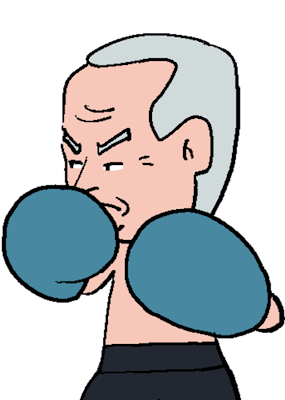
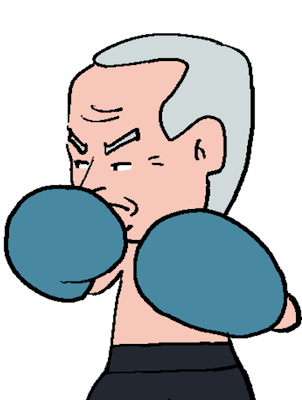
resizing images per devices

diff --git a/FistBump/views/eula/EulaView.jsx b/FistBump/views/eula/EulaView.jsx
@@ -14,19 +14,13 @@ export function EulaView({ navigation }) {
 
     return (
         <View style={styles.container}>
-            {/* <View id='topFrameContainer' style={styles.topFrameContainer}>
-                <Image source={TopFrame} style={styles.topFrame}></Image>
-            </View> */}
             <View style={styles.eulaContent}>
                 <ImageBackground style={styles.eulaFrame} source={EulaFrame}>
-                <ScrollView bounces="false" style={styles.textContainer}> 
-                    <Text style={styles.text}>Lorem ipsum, dolor sit amet consectetur adipisicing elit. Voluptas necessitatibus enim, cupiditate, expedita fugiat hic vel dolorum cumque iusto dicta debitis sapiente nulla sunt, consequatur earum minus inventore explicabo nostrum! Lorem ipsum dolor sit amet, consectetur adipisicing elit. Modi sequi nihil tempore! Reiciendis architecto labore dolore, temporibus distinctio quis quia optio harum maxime vel illo suscipit, nostrum expedita veritatis beatae. Lorem ipsum dolor sit, amet consectetur adipisicing elit. Hic laborum, quas tempore provident asperiores nihil accusantium. Ex provident repellat minima minus amet, fugit quae, est voluptatibus nisi animi temporibus iste. Lorem ipsum, dolor sit amet consectetur adipisicing elit. Laborum blanditiis mollitia debitis cupiditate amet autem, eveniet natus, doloremque dolores aut neque dignissimos sequi reiciendis in doloribus eius. Omnis, ad ab! Lorem ipsum dolor sit amet consectetur adipisicing elit. Minus expedita, doloribus a suscipit eaque voluptas rem modi maiores natus. Molestias voluptatem dicta vero nemo doloremque impedit asperiores. Optio, animi ut! Lorem ipsum dolor sit amet consectetur adipisicing elit. Culpa, voluptates delectus quis, magni sapiente non quasi ex error repellendus eligendi possimus voluptatem. Error pariatur magnam maiores consequatur laboriosam atque accusamus? Lorem, ipsum dolor sit amet consectetur adipisicing elit. Eos magni sequi, suscipit facilis impedit voluptas ratione voluptates enim, vel perferendis praesentium sapiente vitae veniam accusantium animi? Ea, culpa pariatur. Voluptatibus. Lorem ipsum dolor sit amet consectetur adipisicing elit. Nihil sequi animi a assumenda. Deserunt ipsum soluta numquam quos non veritatis voluptates. Tempore pariatur praesentium sequi fuga aspernatur dicta qui? A?</Text>
-                </ScrollView> 
+                    <ScrollView bounces="false" style={styles.textContainer}>
+                        <Text style={styles.text}>Lorem ipsum dolor sit amet consectetur adipisicing elit. Praesentium dolorem cum repellendus, cumque eos eveniet deleniti nemo, fuga est totam itaque perspiciatis expedita odio. Lorem ipsum, dolor sit amet consectetur adipisicing elit. Cum libero repellendus fuga omnis earum praesentium id! Aspernatur ea odit possimus adipisci ab quo inventore dignissimos repellat, Lorem, ipsum dolor sit amet consectetur adipisicing elit. Aspernatur dignissimos autem beatae iure possimus, libero voluptate hic corrupti quibusdam deserunt in velit quae harum unde commodi dicta voluptates at? Sapiente! numquam dolor impedit iure?Eos fugit voluptate aut et molestiae!Lorem ipsum, dolor sit amet consectetur adipisicing elit. Voluptas necessitatibus enim, cupiditate, expedita fugiat hic vel dolorum cumque iusto dicta debitis sapiente nulla sunt, consequatur earum minus inventore explicabo nostrum! Lorem ipsum dolor sit amet, consectetur adipisicing elit. Modi sequi nihil tempore! Reiciendis architecto labore dolore, temporibus distinctio quis quia optio harum maxime vel illo suscipit, nostrum expedita veritatis beatae. Lorem ipsum dolor sit, amet consectetur adipisicing elit. Hic laborum, quas tempore provident asperiores nihil accusantium. Ex provident repellat minima minus amet, fugit quae, est voluptatibus nisi animi temporibus iste. Lorem ipsum, dolor sit amet consectetur adipisicing elit. Laborum blanditiis mollitia debitis cupiditate amet autem, eveniet natus, doloremque dolores aut neque dignissimos sequi reiciendis in doloribus eius. Omnis, ad ab! Lorem ipsum dolor sit amet consectetur adipisicing elit. Minus expedita, doloribus a suscipit eaque voluptas rem modi maiores natus. Molestias voluptatem dicta vero nemo doloremque impedit asperiores. Optio, animi ut! Lorem ipsum dolor sit amet consectetur adipisicing elit. Culpa, voluptates delectus quis, magni sapiente non quasi ex error repellendus eligendi possimus voluptatem. Error pariatur magnam maiores consequatur laboriosam atque accusamus? Lorem, ipsum dolor sit amet consectetur adipisicing elit. Eos magni sequi, suscipit facilis impedit voluptas ratione voluptates enim, vel perferendis praesentium sapiente vitae veniam accusantium animi? Ea, culpa pariatur. Voluptatibus. Lorem ipsum dolor sit amet consectetur adipisicing elit. Nihil sequi animi a assumenda. Deserunt ipsum soluta numquam quos non veritatis voluptates. Tempore pariatur praesentium sequi fuga aspernatur dicta qui? A?</Text>
+                    </ScrollView>
                 </ImageBackground>
             </View>
-            {/* <View id='BottomFrameContainer' style={styles.bottomFrameContainer}>
-                <Image source={BottomFrame} style={styles.bottomFrame}></Image>
-            </View> */}
             <View style={styles.actionsContainer}>
                 <TouchableOpacity onPress={() => navigation.navigate('Landing')} style={styles.buttonContainer}>
                     <Image source={Accept} style={styles.button}>
@@ -52,23 +46,20 @@ const styles = StyleSheet.create({
         alignItems: 'center'
     },
     textContainer: {
+        top:'12%',
+        left: '10%',
+        height: '70%',
+        width: '80%',
+        position: 'absolute',
         paddingLeft: '10%',
         paddingRight: '10%',
         paddingTop: '15%'
     },
     text: {
-        color: 'white',
-        height: '40%'
+        color: 'white'
     },
     eulaFrame: {
-        width: '100%',
-        height: '100%'
-    },
-    topFrameContainer: {
-        width: '100%',
-        height: '10%',
-    },
-    topFrame: {
+        position: 'relative',
         width: '100%',
         height: '100%'
     },
@@ -76,25 +67,16 @@ const styles = StyleSheet.create({
         height: '80%',
         width: '80%',
     },
-    bottomFrameContainer: {
-        width: '100%',
-        height: '10%',
-        paddingTop: 5
-    },
-    bottomFrame: {
-        width: '100%',
-        height: '100%'
-    },
     actionsContainer: {
-        width: '100%',
-        height: '100%',
-        flexDirection: 'row'
+        flex: 1,
+        flexDirection: 'row',
+        justifyContent: 'center'
     },
     buttonContainer: {
         flex: 1
     },
     button: {
-        width: 250,
-        height: 70
+        width: 'auto',
+        height: '100%'
     },
 })

diff --git a/FistBump/views/landing/Landing.jsx b/FistBump/views/landing/Landing.jsx
@@ -4,7 +4,7 @@ import { useEffect, useState } from "react";
 
 export function Landing({ navigation }) {
 
-    const [height, setHeight] = useState((Dimensions.get('window').height * 95) / 100);
+    const [height, setHeight] = useState((Dimensions.get('window').height * 85) / 100);
     const [width, setWidth] = useState((Dimensions.get('window').width * 42) / 100);
 
     return (
@@ -87,13 +87,13 @@ const styles = StyleSheet.create({
     landingContentPlayerTrump: {
         position: 'absolute',
         zIndex: 1,
-        bottom: '-5%',
+        bottom: 0,
         left: 0
     },
     landingContentPlayerBIden: {
         position: 'absolute',
         zIndex: 1,
-        bottom: '-5%',
+        bottom: 0,
         right: 0
     },
     actionsContainer: {
